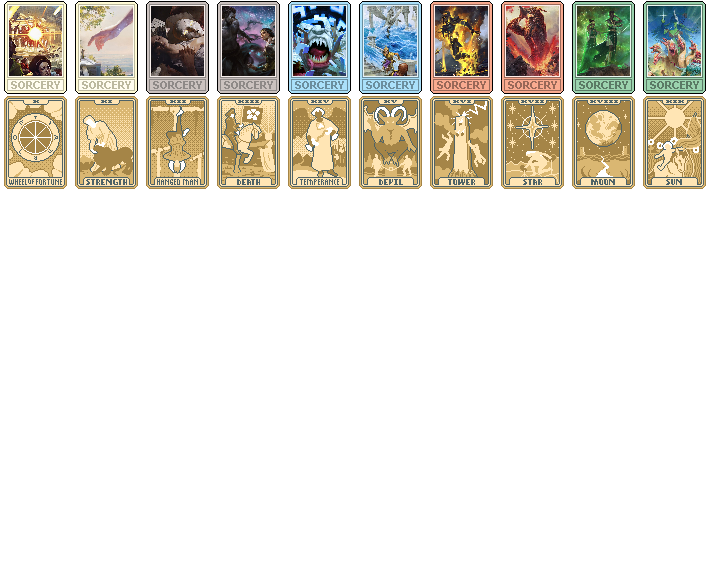
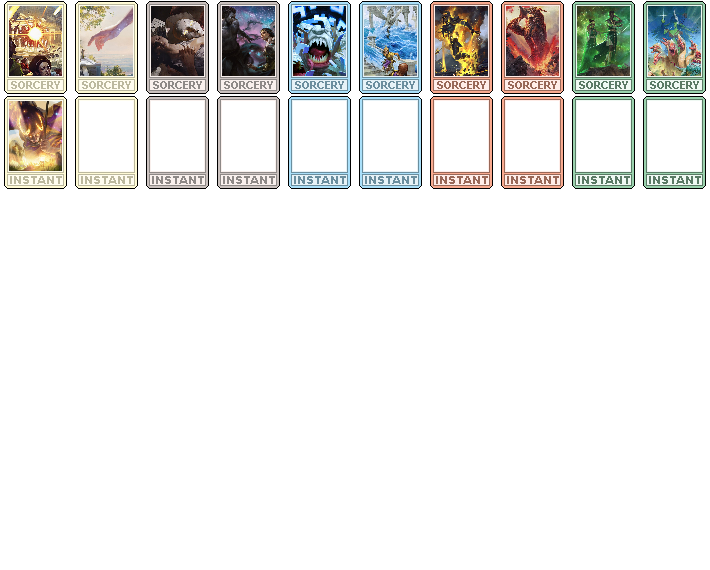
Added first instant. Heliod's Intervention. Added ideas.md and work in progress Packs atlas

Changed region(s): [[0.0, 0.1193, 1.0, 0.3579]]

diff --git a/MTGambling/Ideas.md b/MTGambling/Ideas.md
@@ -1,0 +1,31 @@
+Markdown file with ideas of content to be added to the MTGGambling mod.
+## Jokers
+
+Jokers to be added to the mod.
+### Creatures
+
+### Enchantments/Artifacts
+
+**Underworld Breach**
+- Consumables have a 1 in 3 chance of creating a copy of themselves when used.
+
+**Shadowspear**
+- **Equip** me to the first scored card. When I'm equipped I gain $1 when scored for each card of my rank in the scored hand.
+- **Equip:** Destroy me to give a card an unique enhancement with my effect. If the equipped card is destroyed create me as a Joker (Requires space).
+### Planeswalkers
+
+## Consumables
+
+Consumables to be added to the mod.
+### Sorceries
+
+### Instants
+
+**Erebos' Intervention**
+- Reduce rank of card by 1 and gain 1$. Value increases by 1 for each card destroyed this game. (Max 13)
+
+**Heliod's Intervention**
+- Gain money equal to the amount of money gained this ante. (Max 30)
+
+Thassa's Intervention
+- Draw all cards with the same rank as the selected card from the top 1 cards of your deck. Value increases by 1 for each card drawn after the first draw this round.
